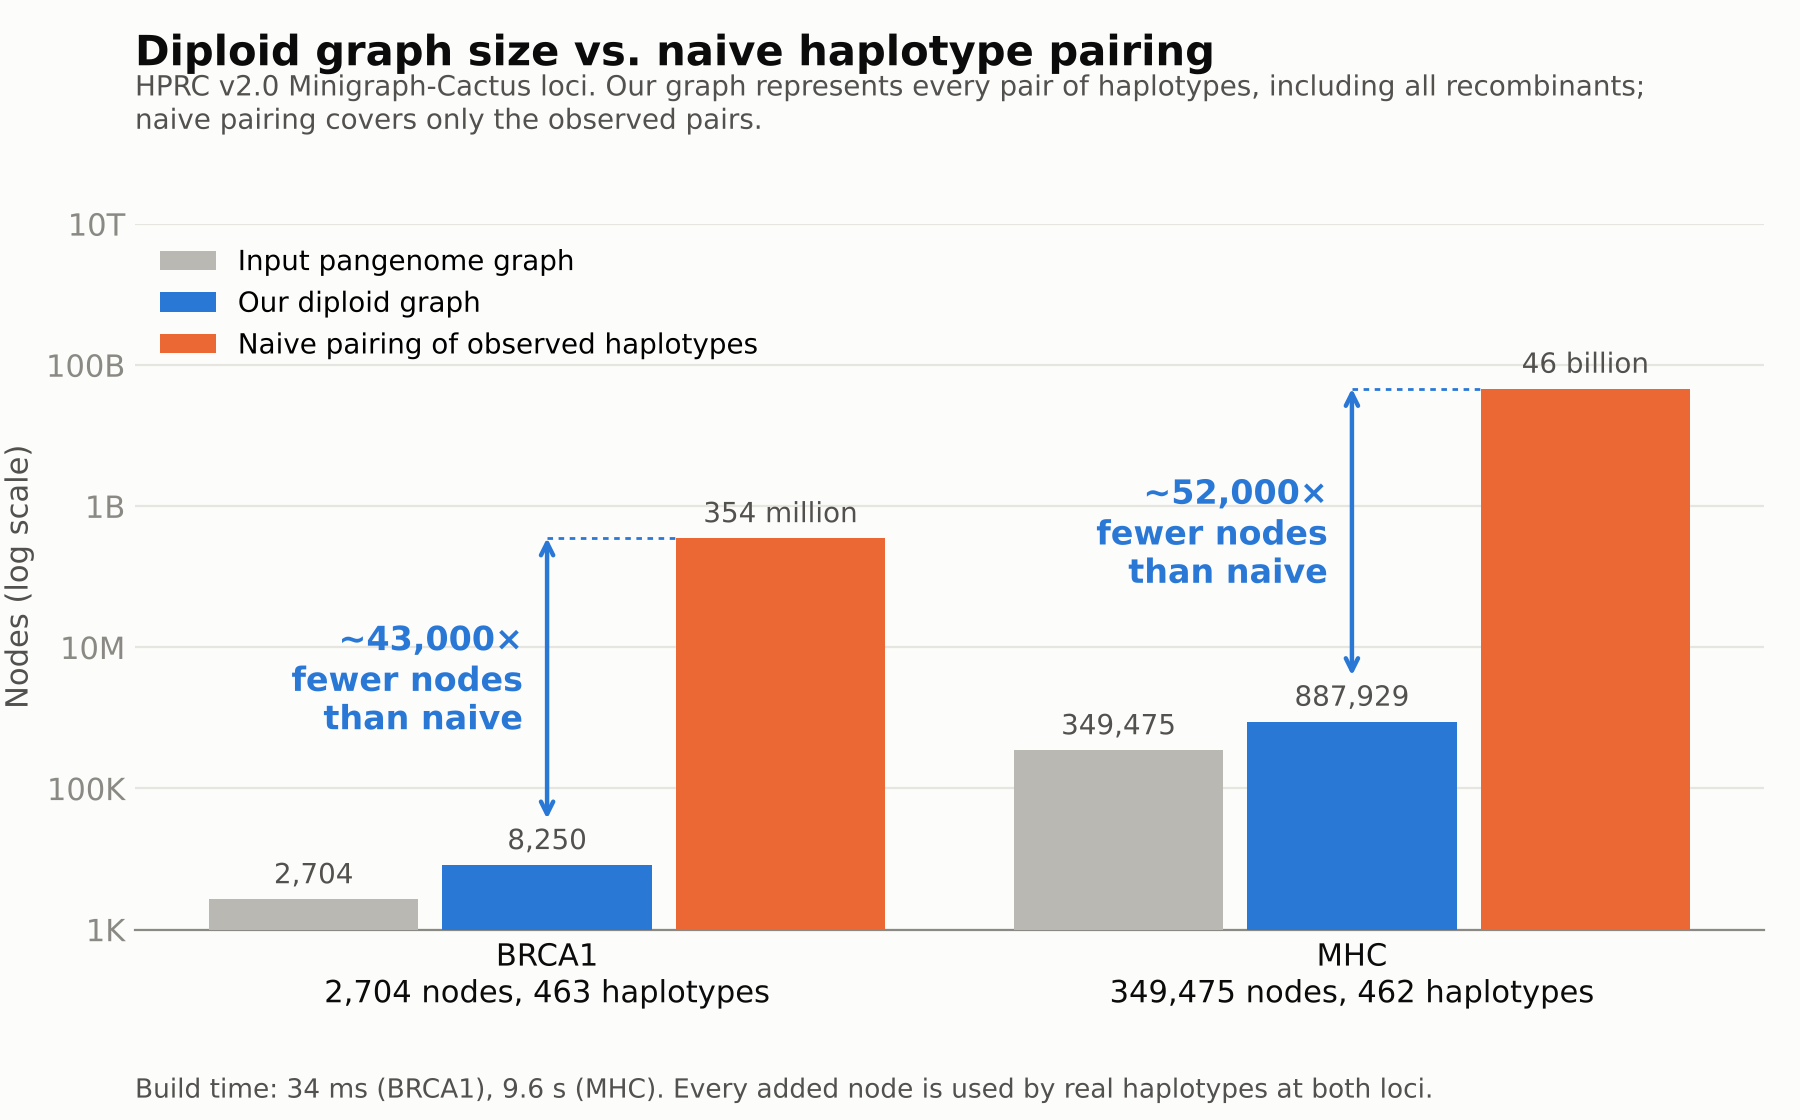
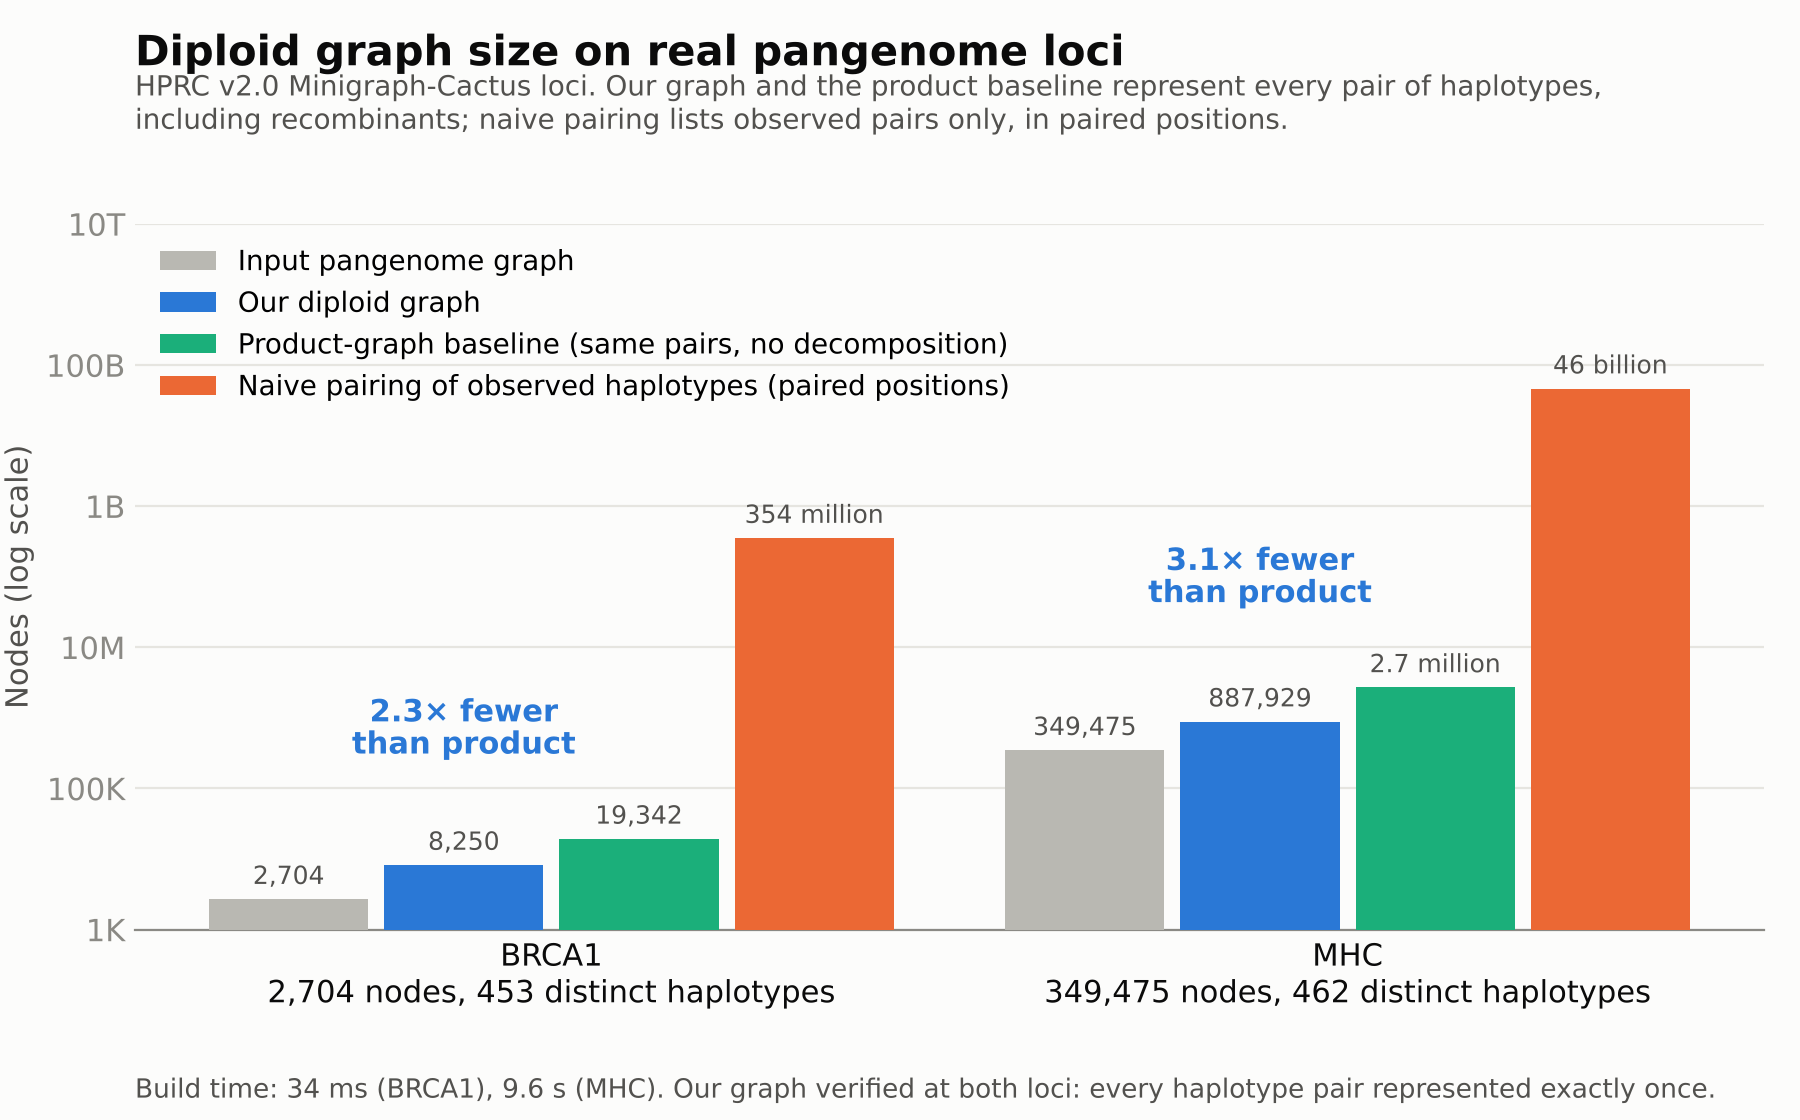
README and figure: fair product-graph baseline first; precise claims; order range and per-pair checks

diff --git a/experiments/plot_real.py b/experiments/plot_real.py
@@ -22,6 +22,7 @@ GRID = "#e6e5e0"
 INPUT = "#b9b8b2"   # neutral: the input graph is context, not a series
 OURS = "#2a78d6"    # categorical slot 1
 NAIVE = "#eb6834"   # categorical slot 2
+PRODUCT = "#1baf7a"  # categorical slot 3
 
 
 def human(n: float) -> str:
@@ -46,28 +47,25 @@ def main() -> None:
     fig, ax = plt.subplots(figsize=(9, 5.6), facecolor=SURFACE)
     ax.set_facecolor(SURFACE)
 
-    width, gap = 0.26, 0.03
+    width, gap = 0.2, 0.02
     series = [("Input pangenome graph", "input_nodes", INPUT),
               ("Our diploid graph", "diploid_nodes", OURS),
-              ("Naive pairing of observed haplotypes", "naive_observed_nodes", NAIVE)]
+              ("Product-graph baseline (same pairs, no decomposition)", "product_nodes", PRODUCT),
+              ("Naive pairing of observed haplotypes (paired positions)", "naive_observed_nodes", NAIVE)]
+    offset = (len(series) - 1) / 2
     for k, (label, key, color) in enumerate(series):
-        xs = [i + (k - 1) * (width + gap) for i in range(len(loci))]
+        xs = [i + (k - offset) * (width + gap) for i in range(len(loci))]
         ys = [data[l][key] for l in loci]
         ax.bar(xs, ys, width=width, color=color, label=label, zorder=3)
         for x, y in zip(xs, ys):
-            ax.text(x, y * 1.35, human(y), ha="center", va="bottom", fontsize=10, color=INK2, zorder=4)
+            ax.text(x, y * 1.35, human(y), ha="center", va="bottom", fontsize=9, color=INK2, zorder=4)
 
     for i, l in enumerate(loci):
         d = data[l]
-        ratio = d["naive_observed_nodes"] / d["diploid_nodes"]
-        x = i  # centre of "our diploid graph" bar
-        lo, hi = d["diploid_nodes"] * 4.5, d["naive_observed_nodes"]
-        ax.annotate("", xy=(x, hi), xytext=(x, lo), zorder=5,
-                    arrowprops=dict(arrowstyle="<->", color=OURS, lw=1.6, shrinkA=0, shrinkB=0))
-        ax.plot([x, x + width / 2 + gap], [hi, hi], color=OURS, lw=1, ls=(0, (2, 2)), zorder=5)
-        mid = (lo * hi) ** 0.5
-        ax.text(x - 0.03, mid, f"~{round(ratio, -3):,.0f}\u00d7\nfewer nodes\nthan naive", ha="right", va="center",
-                fontsize=12, fontweight="bold", color=OURS, zorder=5, linespacing=1.15)
+        ratio = d["product_nodes"] / d["diploid_nodes"]
+        x = i + (1 - offset) * (width + gap)  # our bar
+        ax.text(x, d["product_nodes"] * 12, f"{ratio:.1f}\u00d7 fewer\nthan product", ha="center", va="bottom",
+                fontsize=11, fontweight="bold", color=OURS, zorder=5, linespacing=1.15)
 
     ax.set_yscale("log")
     ax.set_ylim(1e3, 1e13)
@@ -76,7 +74,7 @@ def main() -> None:
     ax.set_yticklabels(["1K", "100K", "10M", "1B", "100B", "10T"], color=MUTED)
     ax.set_ylabel("Nodes (log scale)", color=INK2)
     ax.set_xticks(range(len(loci)))
-    ax.set_xticklabels([f"{l}\n{data[l]['input_nodes']:,} nodes, {data[l]['haplotypes']} haplotypes" for l in loci],
+    ax.set_xticklabels([f"{l}\n{data[l]['input_nodes']:,} nodes, {data[l]['haplotypes']} distinct haplotypes" for l in loci],
                        color=INK)
     ax.grid(axis="y", color=GRID, lw=0.8, zorder=0)
     for s in ("top", "right", "left"):
@@ -84,16 +82,16 @@ def main() -> None:
     ax.spines["bottom"].set_color(MUTED)
     ax.tick_params(length=0)
 
-    fig.suptitle("Diploid graph size vs. naive haplotype pairing", x=0.075, ha="left", fontsize=15,
+    fig.suptitle("Diploid graph size on real pangenome loci", x=0.075, ha="left", fontsize=15,
                  fontweight="bold", color=INK, y=0.97)
-    fig.text(0.075, 0.885, "HPRC v2.0 Minigraph-Cactus loci. Our graph represents every pair of haplotypes, "
-             "including all recombinants;\nnaive pairing covers only the observed pairs.",
+    fig.text(0.075, 0.885, "HPRC v2.0 Minigraph-Cactus loci. Our graph and the product baseline represent every pair of "
+             "haplotypes,\nincluding recombinants; naive pairing lists observed pairs only, in paired positions.",
              ha="left", fontsize=10, color=INK2)
     ax.legend(loc="upper left", frameon=False, fontsize=10, bbox_to_anchor=(0.0, 1.0))
     b, m = data["BRCA1"], data["MHC"]
     fig.text(0.075, 0.02,
              f"Build time: {b['build_s'] * 1000:.0f} ms (BRCA1), {m['build_s']:.1f} s (MHC). "
-             "Every added node is used by real haplotypes at both loci.", ha="left", fontsize=9.5, color=INK2)
+             "Our graph verified at both loci: every haplotype pair represented exactly once.", ha="left", fontsize=9.5, color=INK2)
     fig.subplots_adjust(left=0.075, right=0.98, top=0.8, bottom=0.17)
     fig.savefig(args.out, dpi=200, facecolor=SURFACE)
     print(f"wrote {args.out}")

diff --git a/README.md b/README.md
@@ -5,19 +5,23 @@
 Compact **diploid sequence graphs** from two-terminal DAG sequence graphs.
 
 A haploid sequence graph encodes haplotypes as source-to-sink paths. A diploid
-sequence graph encodes **ordered pairs of haplotypes** as walks. Pairing
-haplotypes naively grows quadratically in the number of haplotypes and
-exponentially in the number of variant sites. `diploidgraph` keeps homozygous
-regions as a single copy of the input graph and adds vertices only where two
-haplotypes can differ: at parallel structures (P-nodes) of a series-parallel
-decomposition and, for graphs that are not series-parallel, inside the small
-irreducible core that contains their W-motifs.
+sequence graph encodes **ordered pairs of haplotypes** as walks: every pair of
+source-to-sink paths, including recombinant pairs that no sample carries.
+`diploidgraph` keeps homozygous regions as a single copy of the input graph and
+adds vertices only where two haplotypes can differ: one vertex per ordered pair
+of branches at each parallel structure (P-node) of a series-parallel
+decomposition, and, for graphs that are not series-parallel, pair states inside
+the irreducible core that contains their W-motifs.
 
-On real HPRC v2.0 pangenome loci:
+On two HPRC v2.0 pangenome loci (BRCA1 and MHC):
 
-* **Compact:** about **43,000x** (BRCA1) and **52,000x** (MHC) fewer nodes than naive pairing of the observed haplotypes.
-* **Complete:** every pair of haplotypes in the graph is represented, including all recombinant pairs, and this is verified.
-* **No wasted nodes:** every added node is used by real haplotypes.
+* **Compact:** 2.3x (BRCA1) and 3.1x (MHC) fewer vertices than the product-graph
+  baseline, which represents exactly the same haplotype pairs without the
+  decomposition. Pairing the observed haplotypes one by one would need about
+  4 x 10^4 to 5 x 10^4 times more vertices (different units; see below).
+* **Exact:** every ordered pair of haplotypes is represented exactly once, checked
+  by brute force on small graphs, pair by pair on sampled real haplotype pairs,
+  and by a whole-graph path count.
 * **Fast:** 0.03 s for BRCA1 and under 10 s for MHC on a laptop.
 
 <img src="experiments/figures/real_loci.png" width="100%">
@@ -29,32 +33,52 @@ Diploid Local Ancestry Inference.* bioRxiv 2025.
 ## Results on real pangenome loci
 
 HPRC v2.0 Minigraph-Cactus subgraphs (GRCh38-based, `ec1M`). Both inputs are
-two-terminal DAGs with no preprocessing. Measured on a laptop (WSL Ubuntu 22.04,
-aarch64, 8 GB RAM), single run.
+two-terminal DAGs with no preprocessing: no link or haplotype walk was dropped.
+Measured on a laptop (WSL Ubuntu 22.04, aarch64, 8 GB RAM), single run.
 
 | | BRCA1 | MHC |
 |---|---|---|
 | Input vertices / edges | 2,704 / 3,828 | 349,475 / 482,220 |
-| Haplotype walks (distinct; source-to-sink) | 465 (455; 463) | 466 (466; 462) |
+| Haplotype walks: all / distinct source-to-sink | 465 / 453 | 466 / 462 |
+| Dropped links / walks with mixed orientation | 0 / 0 | 0 / 0 |
 | P-nodes (max branches) | 982 (3) | 114,540 (4) |
 | Non-series-parallel core: vertices / edges | 203 / 340 | 28,664 / 45,545 |
-| Diploid graph vertices / edges | 8,250 / 12,592 | 887,929 / 1,361,520 |
+| **Diploid graph vertices / edges** | **8,250 / 12,592** | **887,929 / 1,361,520** |
 | Diploid vertices per input vertex | 3.05 | 2.54 |
-| Naive pairing of observed walks, paired vertices | 354,168,814 | 46,485,747,514 |
-| Ordered pairs of all source-to-sink paths represented | about 10^570 | about 10^71057 |
+| Product-graph baseline vertices / edges (same pairs) | 19,342 / pending | 2,709,299 / 3,352,592 |
+| Naive pairing of observed walks, paired positions | 354,168,814 | 46,485,747,514 |
+| Ordered pairs of source-to-sink paths represented | about 10^570 | about 10^71057 |
+| Diploid vertices over 21 vertex orders (min / median / max) | 7,678 / 8,158 / 8,842 | pending |
+| Sampled pairs decoded exactly once (observed; random) | 100/100; 100/100 | pending |
+| Whole-graph check (weighted walk count = N^2) | passed (exact) | passed (modulo two large primes) |
 | Added vertices used by pairs of complete observed haplotypes | 100% | 99.86% |
-| Added vertices used by any observed haplotype (incl. partial walks) | 100% | 100% |
 | Decompose + build time | 0.03 s | 9.6 s |
 | Peak memory (whole process) | 27 MB | 1.2 GB |
-| Exactness check (weighted walk count = N^2) | passed (exact) | passed (modulo two large primes) |
 
-Naive pairing builds one chain of paired vertices for every ordered pair of
-distinct observed walks, as long as the longer walk of the pair; "paired
-vertices" is the total size of these chains, in the same unit as the diploid
-graph's vertices. Reading the MHC GFA takes about 50 s in pure Python and is not
-included in the build time. The 0.14% of MHC vertices not used by complete
-haplotype pairs are used by the 4 haplotype walks that cover the region only
-partly.
+How to read the comparisons:
+
+* **Product-graph baseline** is the like-for-like comparison: it applies the same
+  pair-state construction to every vertex of the input instead of only to the
+  core. It represents exactly the same pairs, and its size is counted in the same
+  unit. The difference is the saving due to the decomposition; it is larger where
+  bubbles are nested or have long branches.
+* **Naive pairing** stores one chain of paired positions for every ordered pair of
+  distinct observed walks. It is not in the same unit as the diploid graph: one
+  diploid vertex can stand for many haplotype pairs, while one naive position
+  stands for one position of one pair. It mainly shows how the cost of listing
+  pairs grows with the number of haplotypes.
+* **Vertex order.** The P-node part does not depend on the vertex order. In the
+  core, the haplotype that is earlier in a fixed topological order moves first,
+  so the core part depends on the order; the table gives the range over the GFA
+  order and 20 random orders.
+* **Observed haplotypes.** On a Minigraph-Cactus graph every bubble branch is
+  used by some input haplotype, so the P-node part is fully used by construction;
+  the figure is informative for the core only. The 0.14% of MHC vertices not used
+  by complete haplotype pairs are used by the 4 walks that cover the region only
+  partly.
+
+Reading the MHC GFA takes about 50 s in pure Python and is not included in the
+build time.
 
 ## Reproduce the results
 
